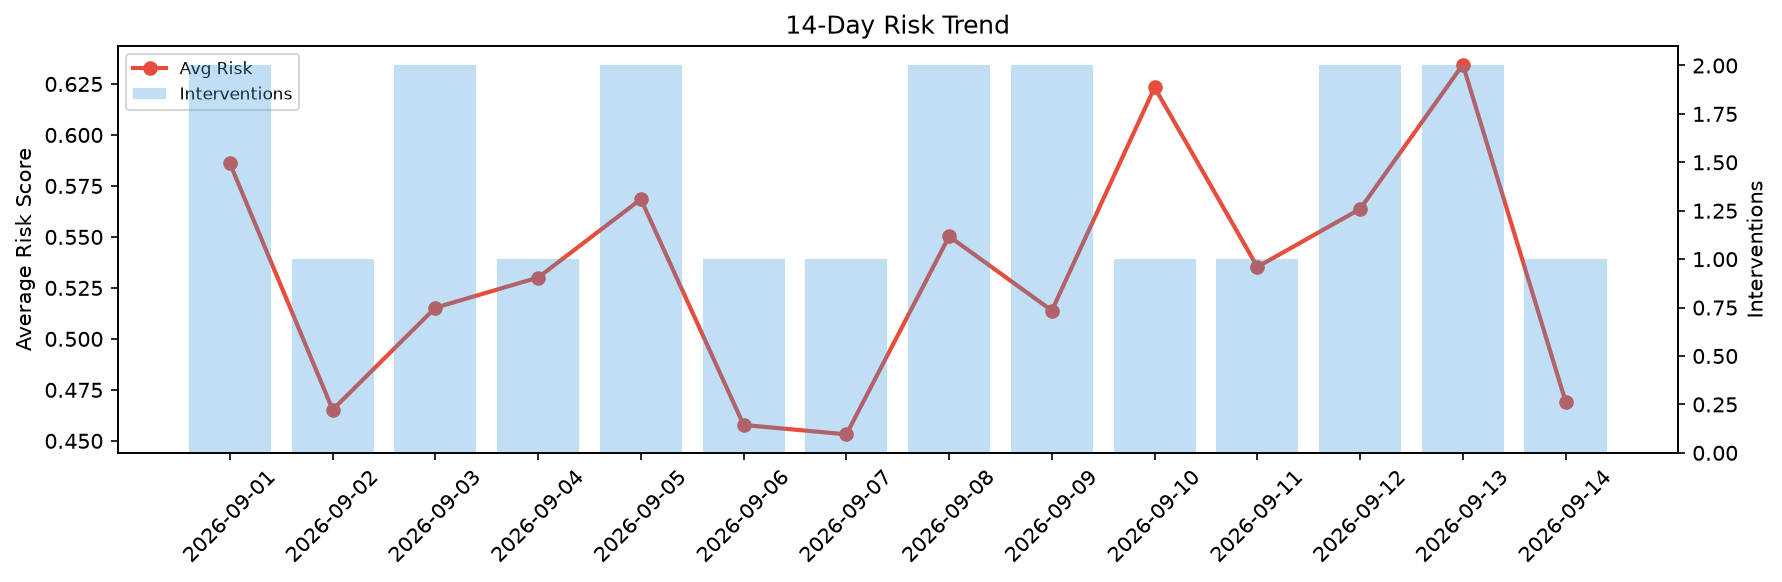
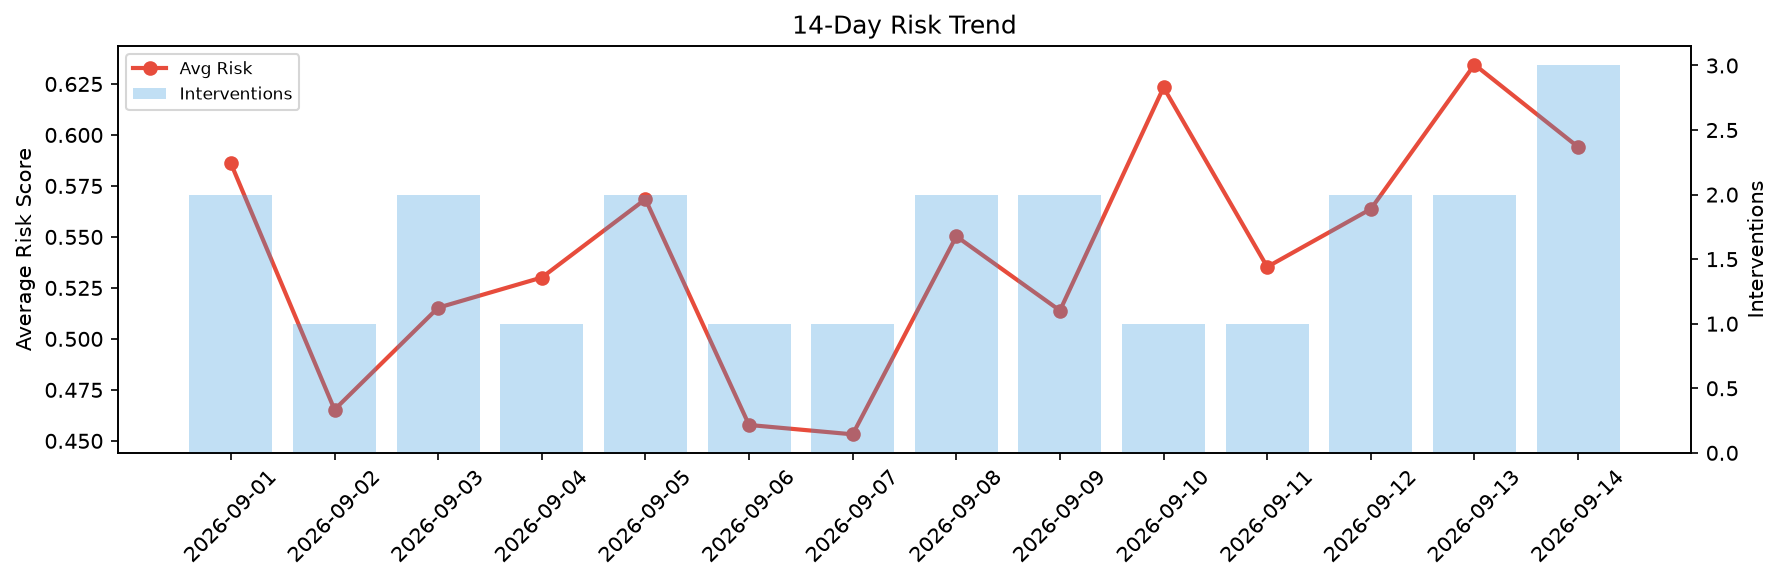
agent-improvement: daily cycle 2026-09-14T23:06

diff --git a/logs/2026-09-14.md b/logs/2026-09-14.md
@@ -1,6 +1,6 @@
 # Agent Improvement Report — 2026-09-14
 
-**Cycle ID:** `1e309a93` | **Avg Risk:** 0.4693 | **Interventions:** 1/4
+**Cycle ID:** `a6a6fe3b` | **Avg Risk:** 0.5941 | **Interventions:** 3/4
 
 ![Dashboard](2026-09-14_dashboard.png)
 
@@ -10,18 +10,18 @@
 
 | Domain | Risk Score | Decision | Alerts |
 |--------|-----------|----------|--------|
-| code_review | 0.6908 | intervene | duplication, coverage |
-| incident_response | 0.3667 | monitor | none |
-| data_pipeline | 0.4633 | monitor | none |
-| deployment | 0.3563 | monitor | none |
+| code_review | 0.6587 | intervene | complexity, duplication |
+| incident_response | 0.676 | intervene | mttr |
+| data_pipeline | 0.6482 | intervene | freshness, volume_anomaly |
+| deployment | 0.3936 | monitor | canary_error |
 
 ## Delta vs Yesterday
 
 | Domain | Today | Yesterday | Change |
 |--------|-------|-----------|--------|
-| code_review | 0.6908 | 0.7668 | 📉 -9.9% |
-| incident_response | 0.3667 | 0.5466 | 📉 -32.9% |
-| data_pipeline | 0.4633 | 0.7741 | 📉 -40.1% |
-| deployment | 0.3563 | 0.4505 | 📉 -20.9% |
+| code_review | 0.6587 | 0.7668 | 📉 -14.1% |
+| incident_response | 0.676 | 0.5466 | 📈 23.7% |
+| data_pipeline | 0.6482 | 0.7741 | 📉 -16.3% |
+| deployment | 0.3936 | 0.4505 | 📉 -12.6% |
 
 **Refinement:** `{'adjustment': 'maintain', 'trend': 'improving', 'window': 4}`
